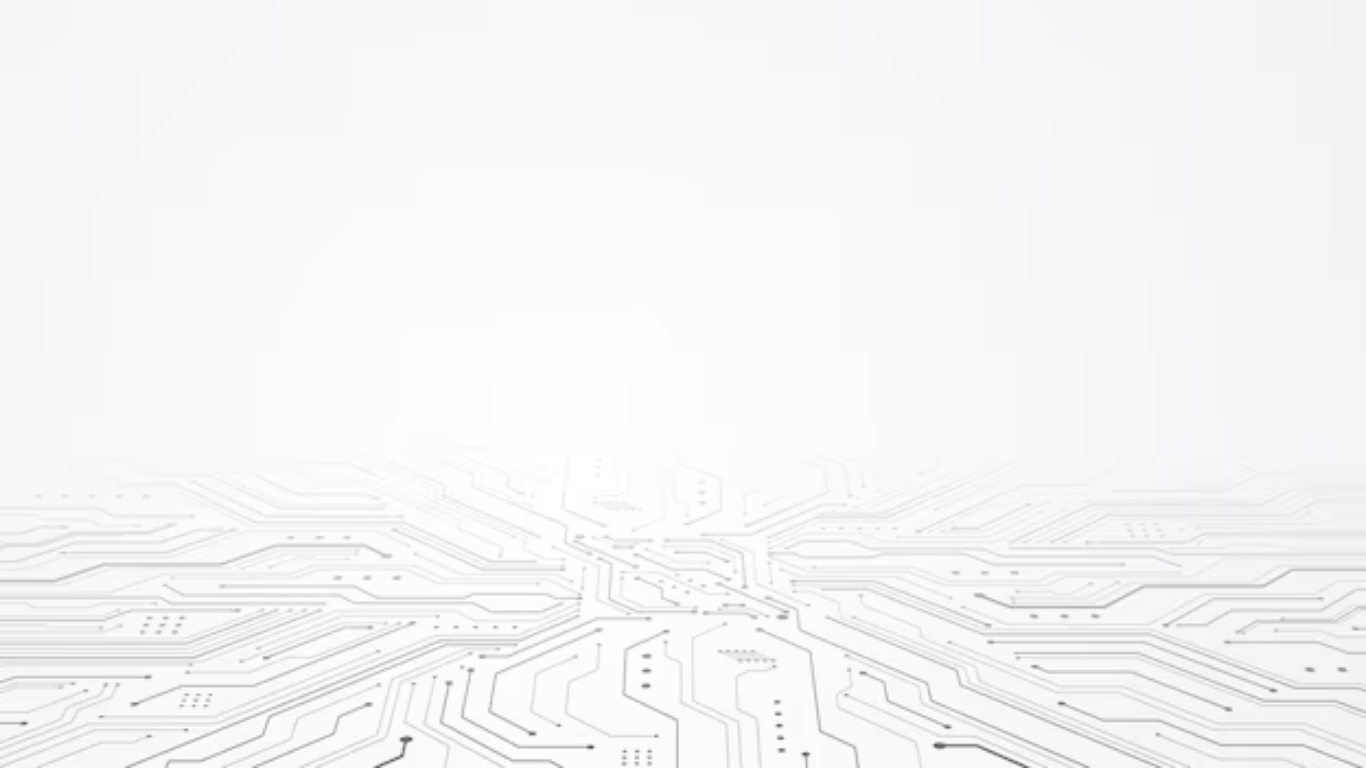
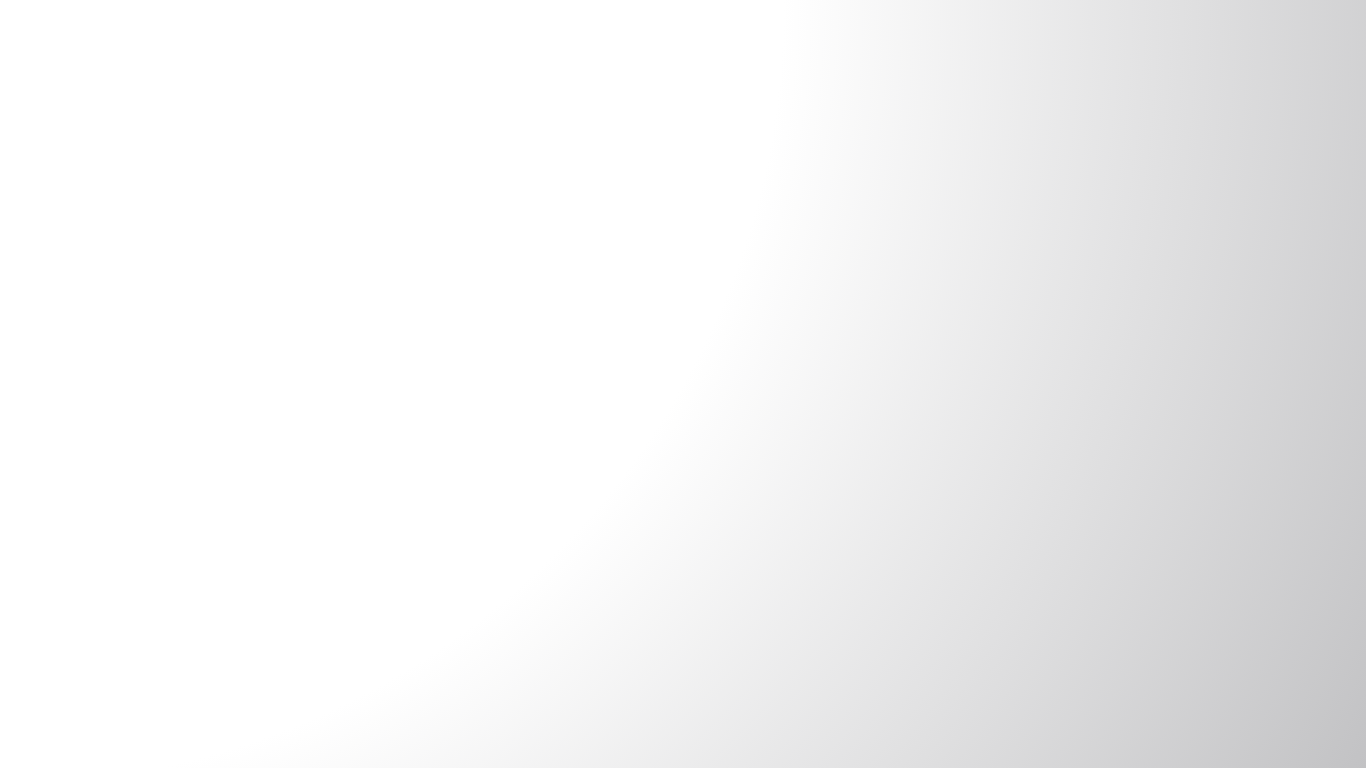
haha

diff --git a/contact.html b/contact.html
@@ -68,7 +68,7 @@
             <center>
                 <p>
                     <font face="Arial" color="black" size="2">
-                        &copy; 2025 System Shapers Electronics. All Rights Reserved. <br>
+                        &copy; 2025 System Shapers Electronics. All Rights Reserved <br>
                         Contact us: 09920030148 | systemshapers@gmail.com
                     </font>
                 </p>
